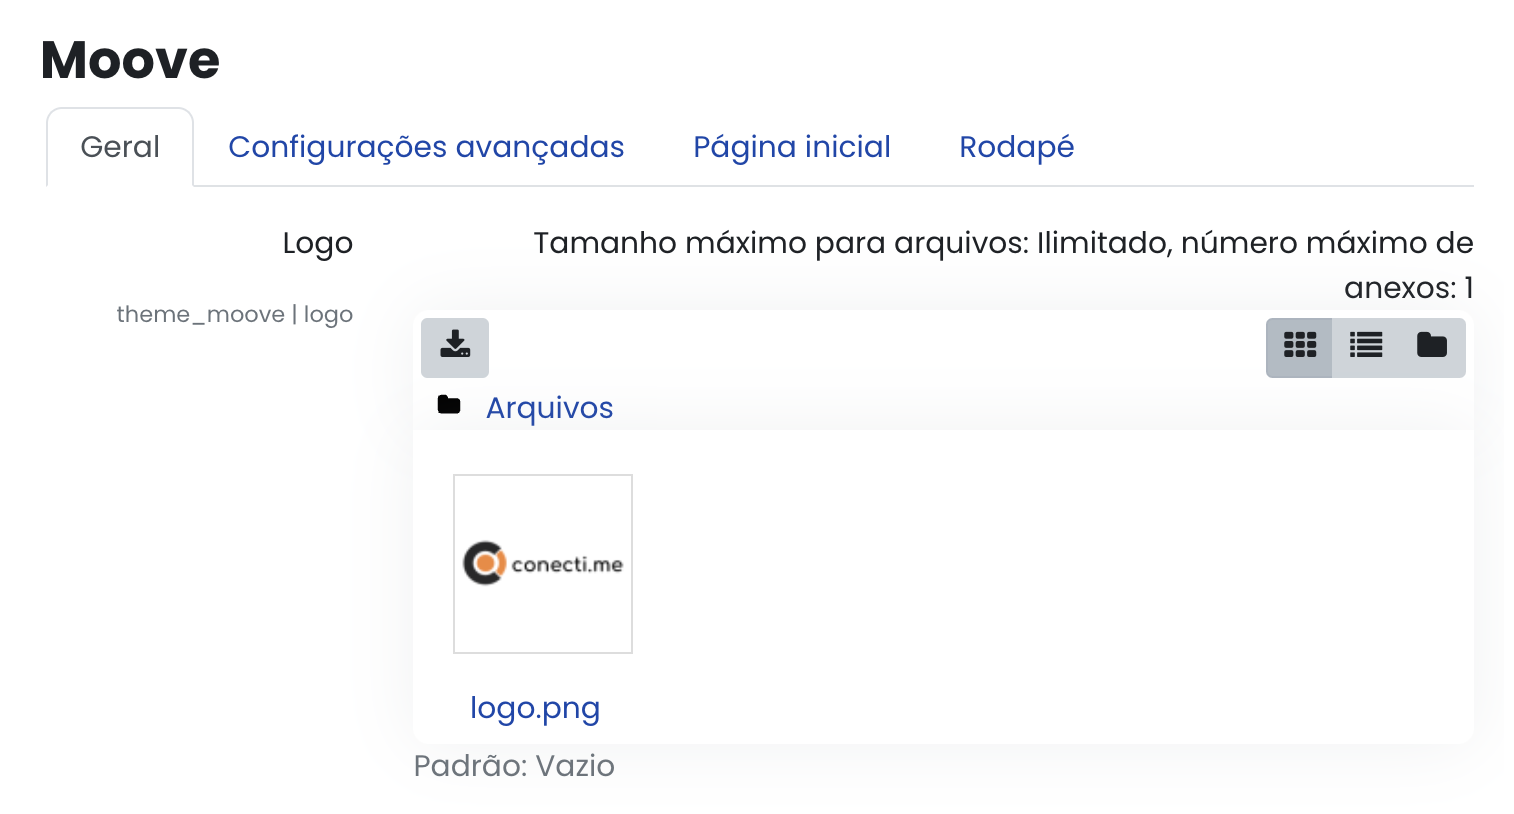
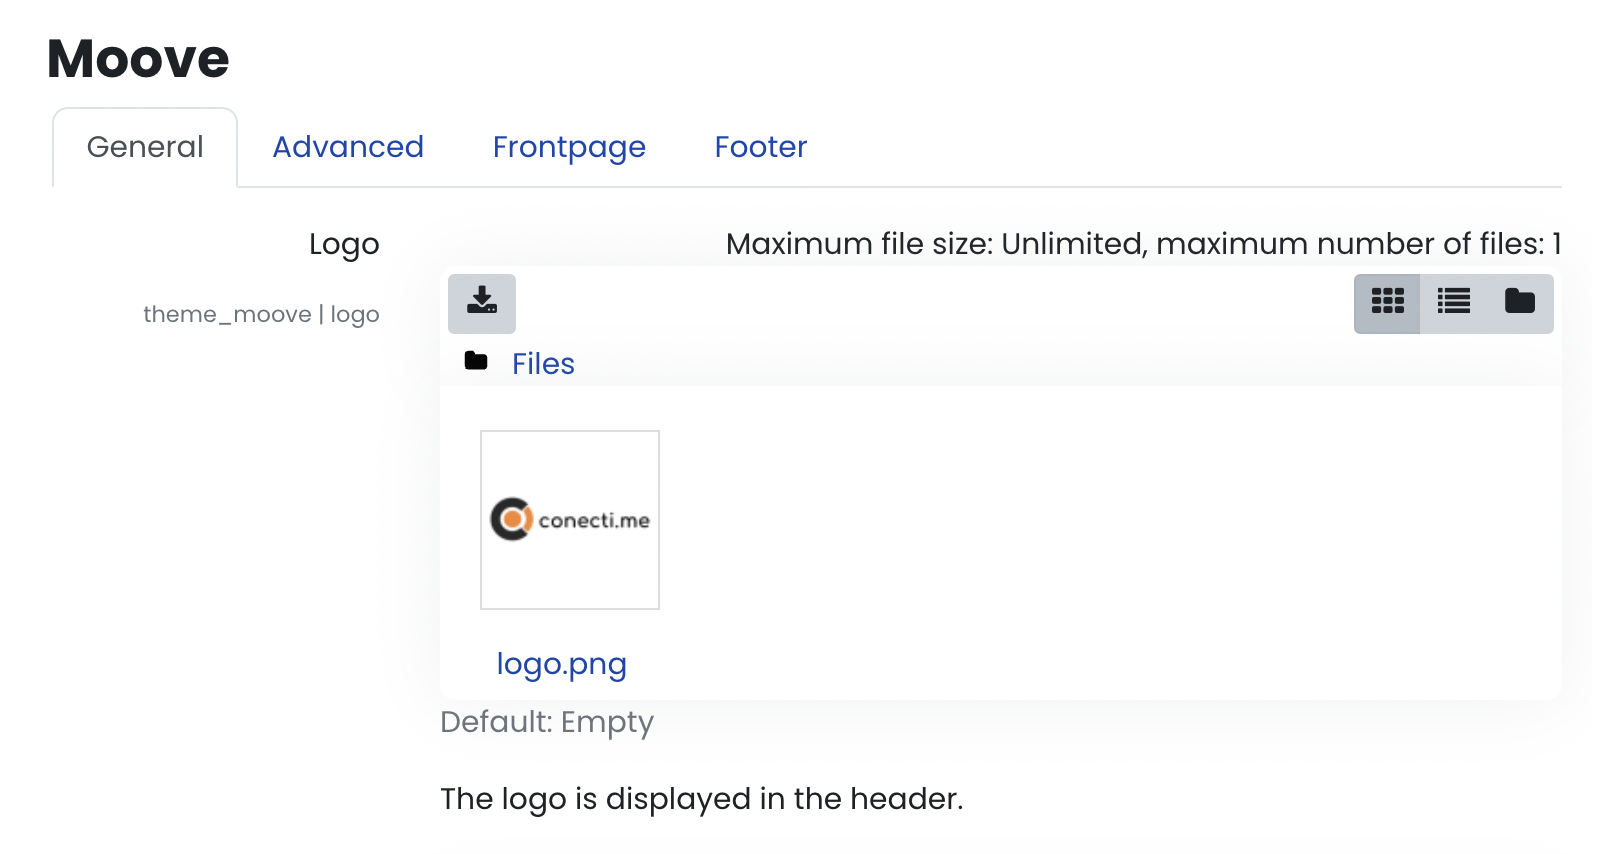
Translate moove general page to en and creates advanced page doc

diff --git a/docs/moove/settings/general.md b/docs/moove/settings/general.md
@@ -4,42 +4,42 @@ sidebar_position: 2
 
 # General
 
-Nesta aba estão configurações gerais aplicadas em todas as partes do site ou em apenas algumas páginas específicas, abaixo é explicado cada configuração individualmente.
+This tab has general settings that are applied to all parts of the site or just some specific pages, below each setting is explained individually.
 
 ### Logo
 
-A logo é exibida no topo do site, algumas outras páginas também exibem a logo, como a página de login.
+The logo is displayed at the top of the site, some other pages also display the logo, such as the login page.
 
 ### Favicon
 
-Favicon é a imagem exibida na aba do seu navegador, ao lado da url do site.
+Favicon is the image displayed in your browser tab, next to the website URL.
 
 ### Preset
 
-Presets são configurações pré-definidas de customização do tema, é possível adicionar seu próprio arquivo de preset no campo seguinte.
+Presets are predefined theme customization settings, you can add your own preset file in the next field.
 
 ### Arquivos de preset adicionais
 
-Preset adicional que após inserido aqui fica disponível no campo anterior para ser escolhido.
+Additional preset that, after being inserted here, is available in the previous field to be chosen.
 
 ### Fundo de página do login
 
-Imagem exibida no fundo da página de logi do site.
+Background image displayed on the login page.
 
 ### Cor da marca
 
-Esta é a cor principal do site. Esta cor é aplicado nos elementos principais como a barra de navegação, os botões de ação principal(btn-primary), links e outros.
+This is the main color of the site. This color is applied to main elements like the navigation bar, main action buttons(btn-primary), links, and others.
 
 ### Cor do menu secundário
 
-Caso você não goste de usar a cor da marca como cor do menu secundário, você pode configurar uma cor alternativa para ele.
+If you don't like to use the brand color as the secondary menu background color, you can set an alternate color here.
 
 ### Fonte do site
 
-Agora é possível escolher uma fonte para seu site. Atenção, as fontes são carregadas do site do Google Fontes, portanto seu site precisa de acesso externo à internet para ser possível visualizar a fonte escolhida.
+You can now choose a font for your site. Attention, the fonts are loaded from the Google Fonts site, so your site needs to have external internet access to be able to load the chosen font.
 
 ### Enable course index
 
-O Moodle 4.0 possui agora a funcionalidade de índice do curso, que é uma funcionalidade que exibe todos os tópicos e atividades do curso num menu lateral esquerdo. Caso queira, você pode desabilitar/habilitar esta funcionalidade.
+Moodle 4.0 has a course index feature, which is a feature that displays all course topics and activities in a left-side menu. If you want, you can enable/disable this feature.
 
-OBS: O formato de curso usado precisa implementar a funcionalidade de índice do curso. Caso você esteja usando um formato de curso que não implementa essa funcionalidade, o índice do curso não será exibido mesmo que você deixe-o habilitado aqui.
+**NOTE:** The course format used in your course must implement the course index functionality. If you are using a course format that does not implement this functionality, the course index will not be displayed even if you leave it enabled here.

diff --git a/i18n/pt/docusaurus-plugin-content-docs/current/moove/settings/general.md b/i18n/pt/docusaurus-plugin-content-docs/current/moove/settings/general.md
@@ -24,7 +24,7 @@ Preset adicional que após inserido aqui fica disponível no campo anterior para
 
 ### Fundo de página do login
 
-Imagem exibida no fundo da página de logi do site.
+Imagem exibida no fundo da página de login do site.
 
 ### Cor da marca
 
@@ -36,10 +36,10 @@ Caso você não goste de usar a cor da marca como cor do menu secundário, você
 
 ### Fonte do site
 
-Agora é possível escolher uma fonte para seu site. Atenção, as fontes são carregadas do site do Google Fontes, portanto seu site precisa de acesso externo à internet para ser possível visualizar a fonte escolhida.
+Agora é possível escolher uma fonte para seu site. Atenção, as fontes são carregadas do site do Google Fontes, portanto seu site precisa de acesso externo à internet para ser possível carregar a fonte escolhida.
 
 ### Enable course index
 
-O Moodle 4.0 possui agora a funcionalidade de índice do curso, que é uma funcionalidade que exibe todos os tópicos e atividades do curso num menu lateral esquerdo. Caso queira, você pode desabilitar/habilitar esta funcionalidade.
+O Moodle 4.0 possui agora a funcionalidade de índice do curso, que é uma funcionalidade que exibe todos os tópicos e atividades do curso num menu lateral esquerdo. Caso queira, você pode habilitar/desabilitar esta funcionalidade.
 
-OBS: O formato de curso usado precisa implementar a funcionalidade de índice do curso. Caso você esteja usando um formato de curso que não implementa essa funcionalidade, o índice do curso não será exibido mesmo que você deixe-o habilitado aqui.
+**OBS:** O formato de curso usado precisa implementar a funcionalidade de índice do curso. Caso você esteja usando em seu curso um formato de curso que não implementa essa funcionalidade, o índice do curso não será exibido mesmo que você deixe-o habilitado aqui.

diff --git a/i18n/pt/docusaurus-plugin-content-docs/current/moove/settings/advanced.md b/i18n/pt/docusaurus-plugin-content-docs/current/moove/settings/advanced.md
@@ -3,3 +3,21 @@ sidebar_position: 3
 ---
 
 # Configurações avançadas
+
+Esta aba possui configurações que exigem conhecimento técnico na área de programação, em especial sobre CSS/SCSS.
+
+### SCSS inicial puro
+
+Neste campo você pode fornecer código SCSS de inicialização, ele será injetado antes de qualquer CSS. Na maioria das vezes você utilizará esta configuração para definir variáveis.
+
+### SCSS puro
+
+Use este campo para fornecer o código SCSS ou CSS que será injetado no fim da folha de estilos.
+
+Com este campo você consegue customizar o visual do seu site. Cores, posicionamentos, tamanhos, visibilidade, tudo que é possível de se fazer usando CSS.
+
+### Código do Google Analytics
+
+Com o Google Analytics é possível analisar os acessos e tráfego do seu site, caso deseja utilizá-lo, adicione neste campo o código do Código do Google Analytics já na versão 4.
+
+O formato do código deve ser semelhante a este **[G-XXXXXXXXXX]**.

diff --git a/docs/moove/settings/advanced.md b/docs/moove/settings/advanced.md
@@ -3,3 +3,21 @@ sidebar_position: 3
 ---
 
 # Advanced
+
+This tab has settings that require technical knowledge in the programming area, especially about CSS/SCSS.
+
+### Raw initial SCSS
+
+In this field you can provide initialising SCSS code, it will be injected before everything else. Most of the time you will use this setting to define variables.
+
+### Raw SCSS
+
+Use this field to provide SCSS or CSS code which will be injected at the end of the style sheet.
+
+With this field, you can customize the look and feel of your site. Colors, placements, sizes, visibility, everything you can do using CSS.
+
+### Google Analytics V4 Code
+
+With Google Analytics it is possible to analyze the access and traffic of your website, if you want to use it, add in this field the code of the Google Analytics Code in version 4.
+
+The code format shold be like **[G-XXXXXXXXXX]**.

diff --git a/i18n/pt/docusaurus-plugin-content-docs/current/moove/settings/intro.md b/i18n/pt/docusaurus-plugin-content-docs/current/moove/settings/intro.md
@@ -8,11 +8,11 @@ Moove vem com uma série de configurações que permite a você customizar seu s
 
 Para acessar as configurações vá para Administração do site > Aparência > Temas > Moove.
 
-![Moove settings](/img/theme_moove/img1.png)
+![Moove settings](/img/pt/theme_moove/img1.png)
 
 Como pode ser visto na imagem acima, as configurações do tema são agrupadas em 4 abas:
 
 - Geral
-- Configurações
+- Configurações avançadas
 - Página
 - Rodapé
